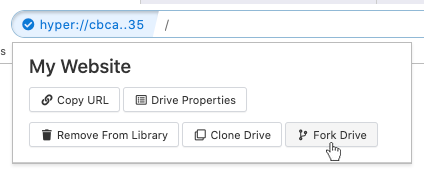
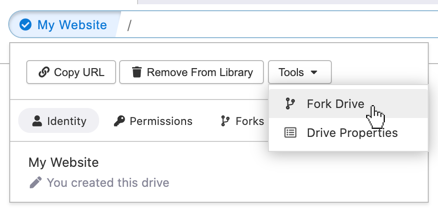
GitBook: [master] 40 pages and 15 assets modified

Changed region(s): [[0.0, 0.0, 1.0, 0.9167], [0.0, 0.9444, 0.9811, 0.9722]]

diff --git a/advanced/forking-hyperdrives.md b/advanced/forking-hyperdrives.md
@@ -11,7 +11,7 @@ You may want to fork a drive when you want
 
 ## Creating Forks
 
-To fork hyperdrive, click the blue address button on the left of the URL bar. Then click "Fork Drive."
+To fork hyperdrive, click the blue address button on the left of the URL bar. Then click "Tools" and then "Fork Drive."
 
 ![](../.gitbook/assets/fork-drive.png)
 
@@ -25,13 +25,11 @@ When visiting a fork, you will see the fork label in the site-info button of the
 
 ![Viewing a fork labeled &quot;my-fork.&quot;](../.gitbook/assets/fork-site-info.png)
 
-To view all forks of a site, open the "site info" sidepanel by clicking the "site info" button in the toolbar.
-
-![](../.gitbook/assets/site-info-button.png)
-
-From the site info panel you can see a list of available forks. You can navigate between them and the original, delete them, create new forks, and "detach" a fork \(which causes it to unlink from the original\).
+To view all forks of a site, click the site-info button and click the "Forks" submenu.
 
 ![](../.gitbook/assets/site-info-forks.png)
+
+From the site info panel you can see a list of available forks. You can navigate between them and the original, delete them, and create new forks.
 
 You can view the forks of a hyperdrive in "My Drives" by clicking the fork number in the listing.
 

diff --git a/beginner/seeding-hyperdrives.md b/beginner/seeding-hyperdrives.md
@@ -4,7 +4,7 @@ You can help keep other people's hyperdrives online by contributing bandwidth. T
 
 To host a drive, visit the drive click on the peer-count on the right side of the URL bar. You will see a toggle. Switch it to the green "on" state.
 
-![](../.gitbook/assets/seed-drive.png)
+![](../.gitbook/assets/host-drive.png)
 
 You can turn off hosting by toggling the button again.
 
@@ -12,9 +12,9 @@ You can turn off hosting by toggling the button again.
 
 To see the drives you're currently hosting, open a new tab and click the ellipsis icon underneath your pinned bookmarks. In the menu, click the "hosting" link.
 
-![](../.gitbook/assets/seeding-nav.png)
+![](../.gitbook/assets/hosting-nav.png)
 
 You can stop hosting drives in that listing by right clicking on them and selecting "stop hosting."
 
-![](../.gitbook/assets/stop-seeding.png)
+![](../.gitbook/assets/stop-hosting.png)
 

diff --git a/README.md b/README.md
@@ -21,7 +21,6 @@ Welcome to the [Beaker Browser](https://beakerbrowser.com) documentation!
 
 * [Your Profile Drive](intermediate/your-profile-drive.md)
 * [Your Address Book](intermediate/your-address-book.md)
-* [Your Feed](intermediate/your-feed.md)
 * [Your System Drive](intermediate/your-system-drive.md)
 
 ### Advanced
@@ -29,7 +28,6 @@ Welcome to the [Beaker Browser](https://beakerbrowser.com) documentation!
 * [Webterm](advanced/webterm.md). Beaker's terminal environment.
 * [Creating Mounts](advanced/creating-mounts.md)
 * [Editing File Metadata](advanced/editing-file-metadata.md)
-* [Cloning Hyperdrives](advanced/cloning-hyperdrives.md)
 * [Forking Hyperdrives](advanced/forking-hyperdrives.md)
 * [Comparing and Merging Hyperdrives](advanced/comparing-and-merging-hyperdrives.md)
 

diff --git a/intermediate/your-profile-drive.md b/intermediate/your-profile-drive.md
@@ -8,7 +8,7 @@ You can find your profile drive by looking at the top right of the browser UI. Y
 
 To change your name, bio, or picture, see [Changing a Drive Title or Thumb](../beginner/changing-a-drive-title-or-thumb.md).
 
-Some applications will use your profile save and publish content. \(This is how [your feed](your-feed.md) works.\) When they want to use your profile, you will be prompted with this interface:
+Some applications will use your profile save and publish content. \(This is how [your feed]() works.\) When they want to use your profile, you will be prompted with this interface:
 
 ![](../.gitbook/assets/select-profile-modal.png)
 

diff --git a/intermediate/your-address-book.md b/intermediate/your-address-book.md
@@ -16,7 +16,7 @@ To add a contact, click the "+ New Contact" button.
 
 ![](../.gitbook/assets/add-contact-dialog.png)
 
-Enter the URL of your new contact's [Profile Drive](your-profile-drive.md) then click "Save." \(You'll need to ask your friend for their URL or find it in a directory.\)
+Enter the URL of your new contact's [Profile Drive](your-profile-drive.md) then click "Save." \(You'll need to ask your friend for their URL or [find it in a directory](https://userlist.beakerbrowser.com/).\)
 
 Applications can ask for individual contacts or to read your entire address book. See the [beaker.contacts](../apis/beaker.contacts.md) API.
 

diff --git a/SUMMARY.md b/SUMMARY.md
@@ -20,7 +20,6 @@
 
 * [Your Profile Drive](intermediate/your-profile-drive.md)
 * [Your Address Book](intermediate/your-address-book.md)
-* [Your Feed](intermediate/your-feed.md)
 * [Your System Drive](intermediate/your-system-drive.md)
 
 ## Advanced
@@ -28,7 +27,6 @@
 * [Webterm](advanced/webterm.md)
 * [Creating Mounts](advanced/creating-mounts.md)
 * [Editing File Metadata](advanced/editing-file-metadata.md)
-* [Cloning Hyperdrives](advanced/cloning-hyperdrives.md)
 * [Forking Hyperdrives](advanced/forking-hyperdrives.md)
 * [Comparing and Merging Hyperdrives](advanced/comparing-and-merging-hyperdrives.md)
 

diff --git a/advanced/comparing-and-merging-hyperdrives.md b/advanced/comparing-and-merging-hyperdrives.md
@@ -2,7 +2,7 @@
 
 Sometimes it's useful to copy files between hyperdrives. This may be particularly useful after [forking a hyperdrive](forking-hyperdrives.md) and making some changes.
 
-To open the "Compare and Merge" interface, navigate to your hyperdrive, right click to open the context menu, and select "Diff / Merge."
+To open the "Compare and Merge" interface, navigate to your hyperdrive, click the blue site-info button on the left of the URL, go to the "Forks" submenu and click "Diff / Merge Original".
 
 ![](../.gitbook/assets/menu-diff-merge.png)
 

diff --git a/intermediate/your-system-drive.md b/intermediate/your-system-drive.md
@@ -2,7 +2,7 @@
 
 Beaker automatically creates a private "System Drive" for storing your private information. It contains your saved hyperdrives, addressbook, bookmarks, webterm commands, and more.
 
-You can find the drive by opening the browser menu and selecting "My System Drive."
+You can find the drive by opening the browser menu, clicking "My Library," and selecting "My System Drive."
 
 ![](../.gitbook/assets/browser-menu-system-drive.png)
 
